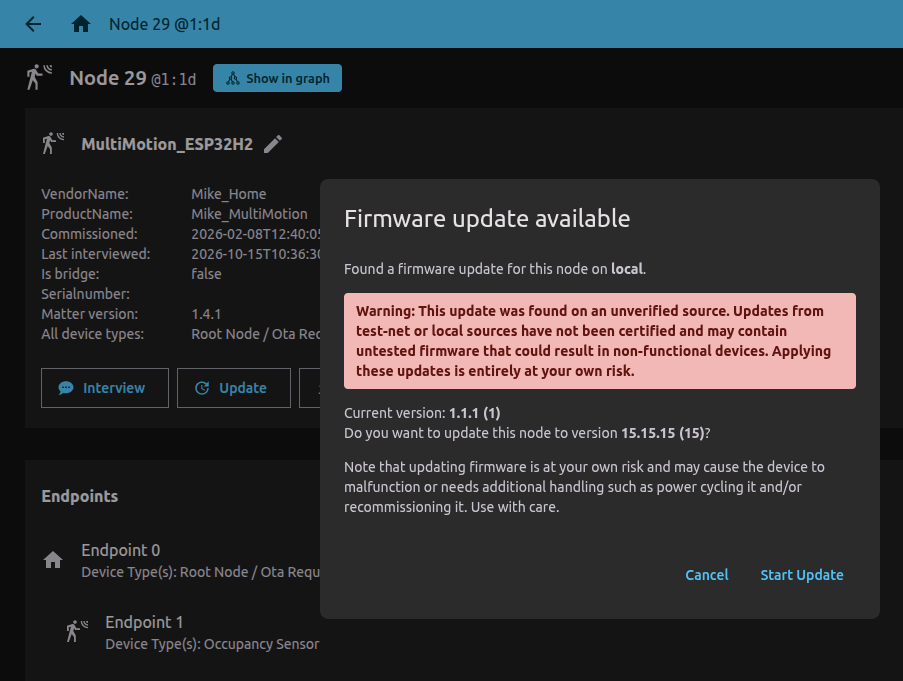
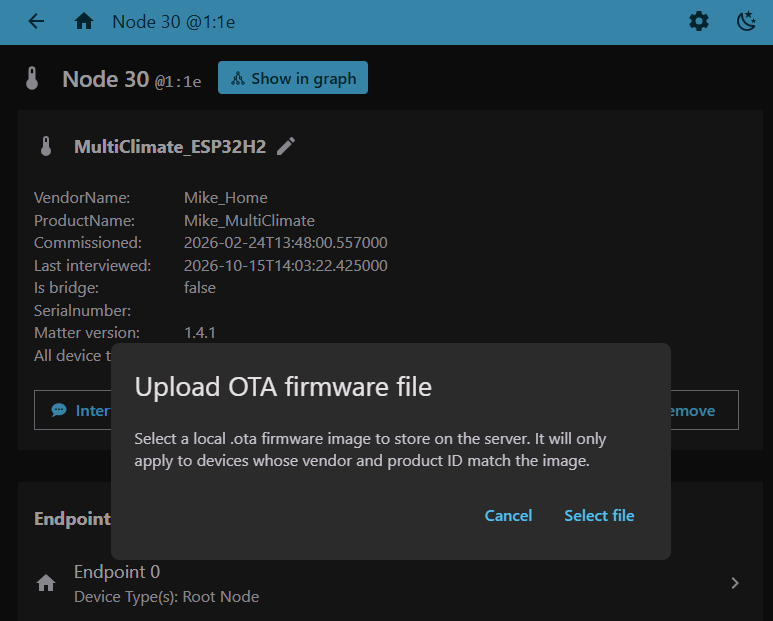
README.md

diff --git a/tools/esp-matter-make-ota/README.md b/tools/esp-matter-make-ota/README.md
@@ -1,11 +1,11 @@
 
 # Matter Server: Firmware Update
 
-### 1) Configure Matter Server app
-To accept test VID/PID values there should be "Enable test-net DCL usage" option switched ON.  
+### 1) Configure the Matter Server app
+To allow the system to accept test VID/PID values, you must enable the "Enable test-net DCL usage" option.  
 ![](images/matter_server-firmware_update_01.png)  
   
-### 2) Change version in the CMakeLists.txt file:
+### 2) Change the version in the CMakeLists.txt file:
 > #-- BasicInformationCluster (ClusterId 40, 0x0028), Endpoint 0  
 > #-- AttributeId 9: SoftwareVersion  
 > set(PROJECT_VER_NUMBER **1**)  
@@ -13,14 +13,16 @@ To accept test VID/PID values there should be "Enable test-net DCL usage" option
 > set(PROJECT_VER "1.1.1")  
 >  
   
-The value of PROJECT_VER_NUMBER must be greater than existing (for example, was **1**, the new one **2**). 
+The "PROJECT_VER_NUMBER" value must be higher than the current one (for example, if it was **1**, the new value should be **2**). 
 > set(PROJECT_VER_NUMBER **2**)  
 >  
+Otherwise, the update will not take effect.  
+![](images/matter_server-firmware_update_wrong.png)  
   
-Any other parameters are not used for the update process and do not matter for it.  
+Other parameters are not used during the update process and have no impact on it.  
 
 ### 3) Set the version for creating the OTA-file
-When the project building starts, in the *build* folder will be created the file *build/args-ota-image.tmp*:  
+When building the project, a file named *build/args-ota-image.tmp* is generated in the *build* directory:  
 >  
 > --vendor-id  
 > 0xfff1  
@@ -34,7 +36,7 @@ When the project building starts, in the *build* folder will be created the file
 > sha256  
 >  
 
-The same values must be set in the _ota.sh script to make OTA firmware file:
+These same values must be specified in the *ota.sh* script to create the firmware OTA file:
 > python3 "\${OTA_SCRIPT_PATH}/ota_image_tool.py" create \  
 >     -v 0xFFF1 \  
 >     -p 0x8000 \  
@@ -45,18 +47,20 @@ The same values must be set in the _ota.sh script to make OTA firmware file:
 >     "\$OTA_FILE"  
 >  
 
-As a result of execution of this script will be the OTA file **PROJECTNAME.ota** generated.  
+Executing this script will generate an OTA file named **PROJECTNAME.ota**.  
   
-Moreover, if the parameter **CONFIG_CHIP_OTA_IMAGE_BUILD=y** set in *sdkconfig.default*, there will be the OTA file **PROJECTNAME-ota.bin** generated in the *build* folder automatically.
+Additionally, if the parameter **CONFIG_CHIP_OTA_IMAGE_BUILD=y** is set in the *sdkconfig.default* file, an OTA file named **PROJECTNAME-ota.bin** will be automatically created in the *build* directory.  
 
 ### 4) Upload firmware
-This file should be used for "Upload Firmware" for the node with VID (0xFFF1) and PID (0x8000).  
+This file should be used for the "Upload Firmware" operation on a node with the corresponding VID (0xFFF1) and PID (0x8000) identifiers.  
   
-***If there are more than one node with the same VID/PID, the first one will be updated!***  
+***If there are multiple nodes with the same VID/PID, the update will be applied to the first one!***  
 
 ![](images/matter_server-firmware_update_02.png)  
   
 ![](images/matter_server-firmware_update_03.png)  
   
 ![](images/matter_server-firmware_update_04.png)  
+  
+![](images/matter_server-firmware_update_05.png)  
   
